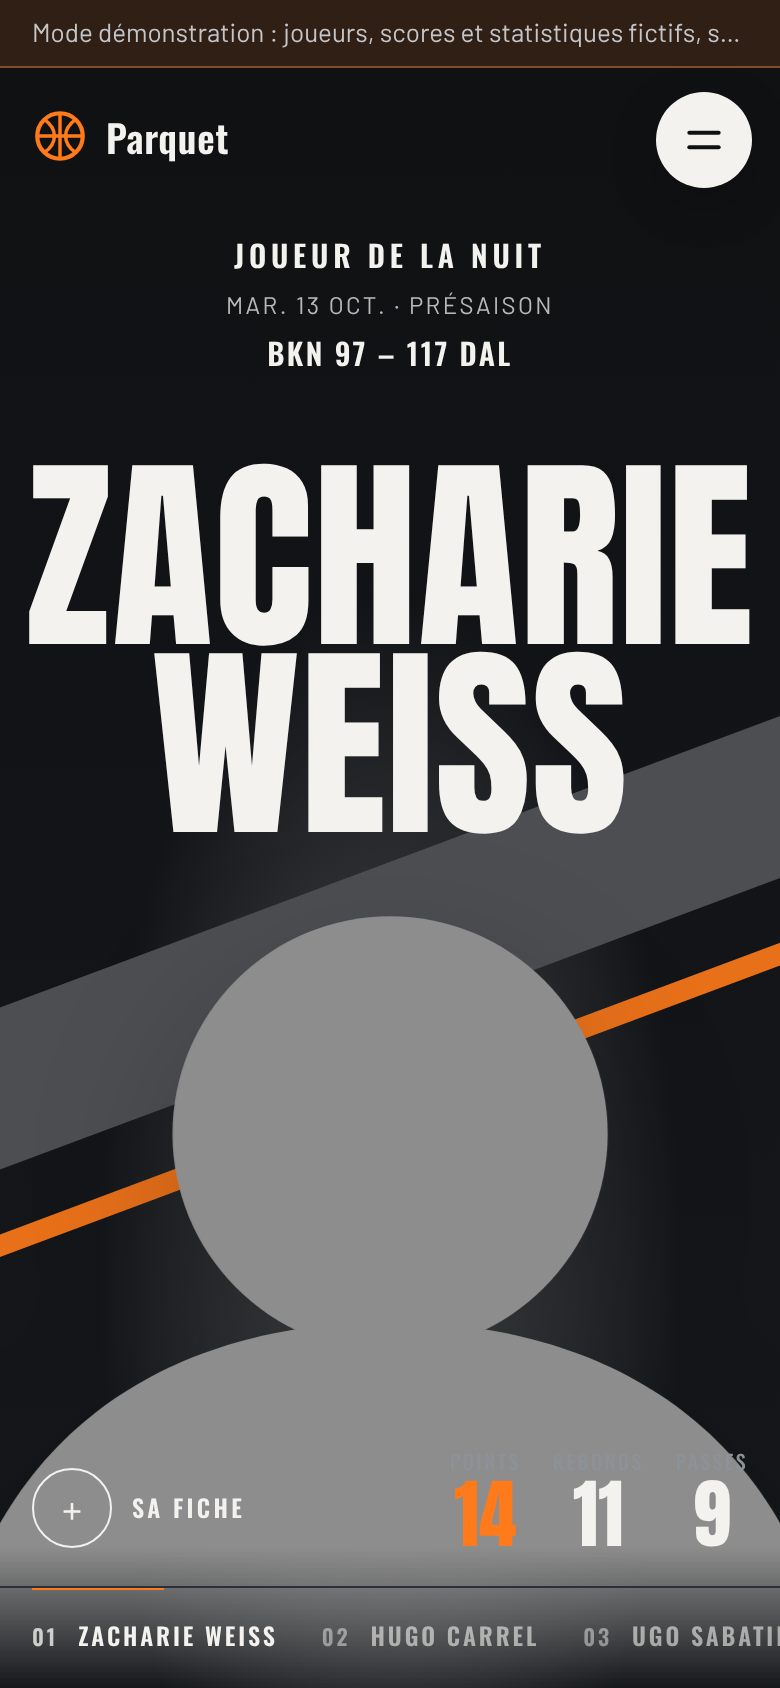
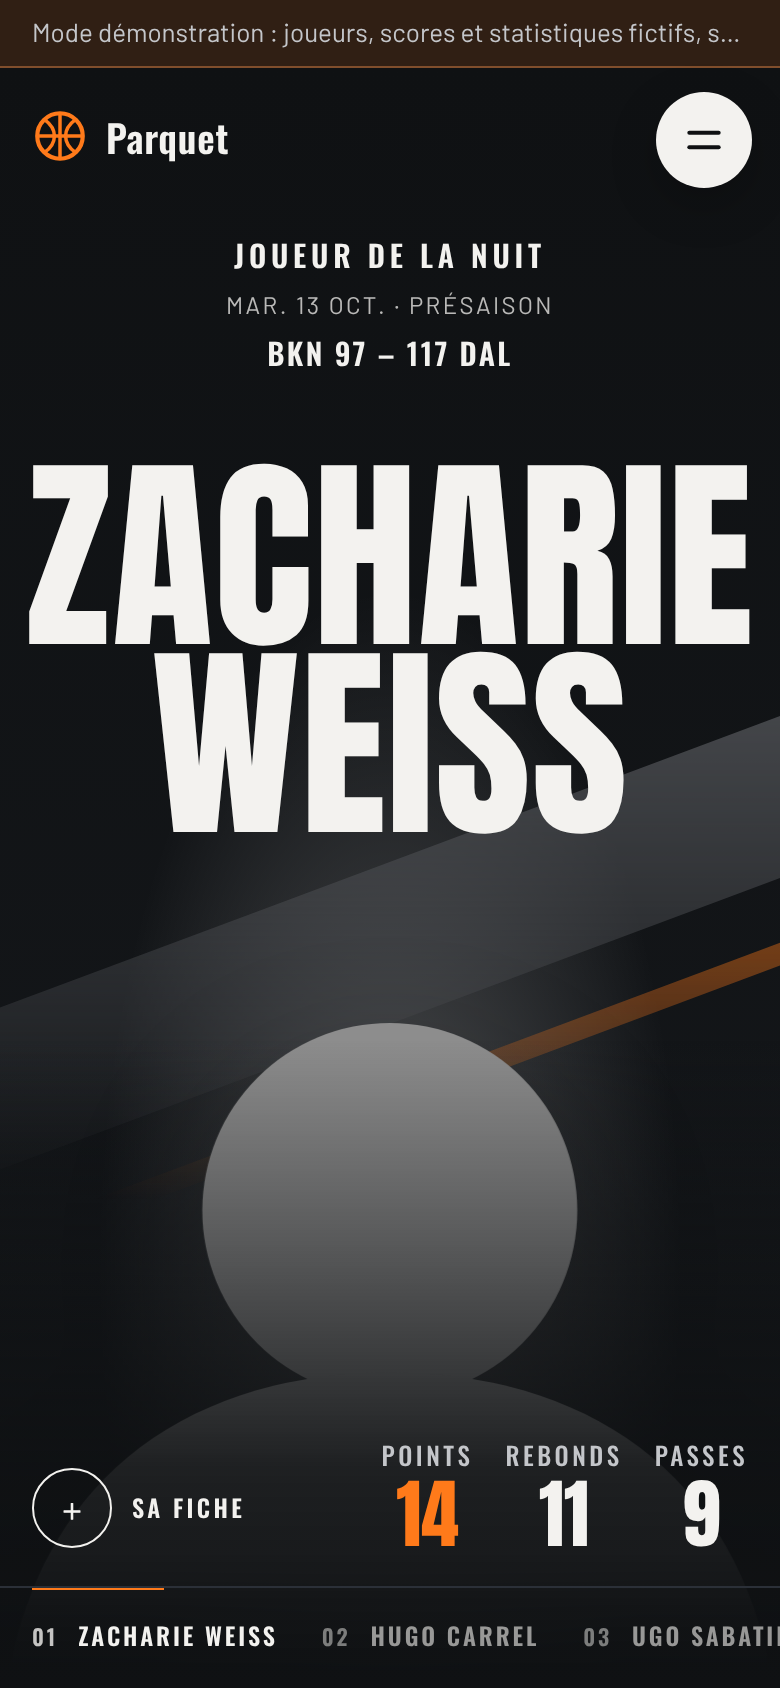
Animations plus fluides et stats plus lisibles (v1.9.1)
Animations
- Plus de formes qui se croisent : au changement de joueur, l'ancien s'efface
  sur place, puis le nouveau entre une fois la place libre
- Les bandes s'étirent depuis la gauche au lieu de traverser l'écran
- Courbes d'animation adoucies, mouvements à la souris et au défilement
  raccourcis, titres qui ne remontent plus sur leur ligne d'en-tête,
  bandeau des scores moins incliné

Lisibilité
- Voile de fond sous les stats et l'encart du match de la scène, et sous
  les titres des affiches (le portrait ou le logo s'estompe derrière)
- Bandes effacées dans la zone des textes, chiffres fantômes plus discrets
- Libellés des stats plus contrastés, survol des lignes de match atténué
- Portrait de la scène abaissé : il ne cache plus que le bas du nom

diff --git a/web/css/style.css b/web/css/style.css
@@ -8691,3 +8691,299 @@ body.is-immersive main h2:not(.stage-name):not(.name) {
   border-radius: 0;
   box-shadow: none;
 }
+
+/* =====================================================================
+   2.0 Fluidité et lisibilité : les éléments ne se croisent plus en
+   bougeant (on sort, puis on entre), les textes et les chiffres sont
+   toujours posés sur un fond calme.
+   ===================================================================== */
+
+:root {
+  --ease-out: cubic-bezier(0.22, 1, 0.36, 1);
+  --ease-in: cubic-bezier(0.55, 0, 0.75, 0.2);
+}
+
+/* ------------------------------------------------ transitions sans chevauchement */
+
+/* Les bandes s'étirent depuis la gauche au lieu de traverser l'écran. */
+.stage-band {
+  transform-origin: left center;
+  animation: band-grow 1s var(--ease-out) both;
+}
+
+.stage-band.thin {
+  animation-delay: 0.1s;
+}
+
+@keyframes band-grow {
+  from {
+    transform: scaleX(0);
+  }
+}
+
+.stage-cutout,
+.poster-visual.is-cutout img {
+  animation: cut-enter 1s var(--ease-out) 0.1s both;
+}
+
+@keyframes cut-enter {
+  from {
+    opacity: 0;
+    transform: translateY(18px) scale(0.985);
+  }
+}
+
+/* Changement de joueur : tout l'ancien s'efface d'abord, sur place… */
+.slide.is-leaving .sn-in {
+  animation: sn-exit 0.36s var(--ease-in) both;
+  animation-delay: calc(var(--i, 0) * 40ms);
+}
+
+@keyframes sn-exit {
+  to {
+    opacity: 0;
+    transform: translateY(-60%);
+  }
+}
+
+.slide.is-leaving .stage-cutout {
+  animation: cut-exit 0.32s var(--ease-in) both;
+}
+
+@keyframes cut-exit {
+  to {
+    opacity: 0;
+    transform: translateY(12px) scale(0.985);
+  }
+}
+
+.slide.is-leaving .stage-band,
+.slide.is-leaving .stage-top,
+.slide.is-leaving .stage-left,
+.slide.is-leaving .stage-stats,
+.slide.is-leaving .stage-gate {
+  animation: fade-only-out 0.24s ease both;
+}
+
+/* … puis le nouveau entre, une fois la place libre. */
+.slide.is-after .stage-band {
+  animation-name: band-grow;
+  animation-delay: 0.34s;
+}
+
+.slide.is-after .stage-band.thin {
+  animation-delay: 0.42s;
+}
+
+.slide.is-after .sn-in {
+  animation-delay: calc(var(--i, 0) * 80ms + 0.42s);
+}
+
+.slide.is-after .stage-cutout {
+  animation-name: cut-enter;
+  animation-delay: 0.4s;
+}
+
+.slide.is-after .stage-top {
+  animation-delay: 0.45s;
+}
+
+.slide.is-after .stage-left {
+  animation-delay: 0.5s;
+}
+
+.slide.is-after .ss-item {
+  animation-delay: calc(var(--i, 0) * 70ms + 0.5s);
+}
+
+/* Profondeur à la souris et au défilement : des mouvements courts, qui ne font plus passer
+   une forme sur un texte. */
+.name-layer {
+  translate: calc(var(--mx, 0) * -8px) calc(var(--my, 0) * -4px);
+  transform: translateY(calc(var(--out, 0) * -8vh));
+  opacity: calc(1 - var(--out, 0) * 1.6);
+}
+
+.cut-layer {
+  translate: calc(var(--mx, 0) * 12px) calc(var(--my, 0) * 5px);
+}
+
+.stage-band {
+  translate: calc(var(--mx, 0) * -10px) 0;
+}
+
+.stage-band.thin {
+  translate: calc(var(--mx, 0) * -16px) 0;
+}
+
+.poster-title {
+  translate: calc(var(--mx, 0) * -6px) 0;
+  transform: none;
+}
+
+.poster-copy {
+  opacity: calc(1 - var(--out, 0) * 1.1);
+}
+
+.poster-ghost {
+  translate: calc(var(--mx, 0) * 10px) calc(var(--out, 0) * 36px);
+}
+
+.poster-visual {
+  translate: calc(var(--mx, 0) * 10px) calc(var(--my, 0) * 4px);
+}
+
+.home-games .page-title {
+  translate: calc((1 - var(--enter, 1)) * 6vw) 0;
+}
+
+.nn-big {
+  translate: 0 calc((1 - var(--enter, 1)) * 36px);
+}
+
+.night-num:nth-child(even) .nn-big {
+  translate: 0 calc((1 - var(--enter, 1)) * 56px);
+}
+
+.ht-col:nth-child(2) {
+  translate: 0 calc((1 - var(--enter, 1)) * 30px);
+}
+
+.ht-col:nth-child(3) {
+  translate: 0 calc((1 - var(--enter, 1)) * 60px);
+}
+
+.home-games .game-tile:not(.row-in) .tile-team .logo {
+  transform: scale(0.85);
+}
+
+.home-games .game-tile:not(.row-in) .tl-player .headshot {
+  transform: translateY(18%);
+}
+
+.home-games .game-tile,
+.home-games .game-tile .tile-team .logo,
+.home-games .tl-player .headshot {
+  transition-timing-function: var(--ease-out);
+}
+
+/* ------------------------------------------------ lisibilité */
+
+/* Scène de l'accueil : un voile monte du bas de l'écran, sous les stats et l'encart du match,
+   pour que rien (portrait, bandes) ne passe derrière les chiffres. */
+.slide::after {
+  content: "";
+  position: absolute;
+  left: 0;
+  right: 0;
+  bottom: 0;
+  height: 44%;
+  z-index: 4;
+  pointer-events: none;
+  background: linear-gradient(to top, var(--bg) 0%, color-mix(in oklab, var(--bg) 88%, transparent) 34%, transparent 100%);
+}
+
+/* Les bandes s'effacent avant d'atteindre le bas de la scène et la zone des textes des affiches. */
+.stage .stage-band {
+  -webkit-mask-image: linear-gradient(to bottom, #000 35%, transparent 70%);
+  mask-image: linear-gradient(to bottom, #000 35%, transparent 70%);
+}
+
+.poster .stage-band,
+.game-page .scoreboard .stage-band {
+  -webkit-mask-image: linear-gradient(to right, transparent 8%, #000 62%);
+  mask-image: linear-gradient(to right, transparent 8%, #000 62%);
+}
+
+/* Affiches : le portrait ou le logo s'estompe vers la gauche, sous le titre et les chiffres. */
+.poster-visual {
+  z-index: 2;
+}
+
+.poster::before {
+  content: "";
+  position: absolute;
+  inset: 0;
+  z-index: 3;
+  pointer-events: none;
+  background: linear-gradient(90deg, var(--bg) 0%, color-mix(in oklab, var(--bg) 82%, transparent) 34%, transparent 66%);
+}
+
+.poster-slim::before {
+  display: none;
+}
+
+/* Chiffres fantômes plus discrets, pour ne jamais concurrencer les vrais chiffres. */
+.poster-ghost {
+  background: linear-gradient(180deg, color-mix(in oklab, var(--text) 9%, transparent) 10%, color-mix(in oklab, var(--text) 1%, transparent) 88%);
+  -webkit-background-clip: text;
+  background-clip: text;
+}
+
+.nn-big {
+  background: linear-gradient(180deg, color-mix(in oklab, var(--text) 17%, transparent) 10%, color-mix(in oklab, var(--text) 3%, transparent) 78%);
+  -webkit-background-clip: text;
+  background-clip: text;
+}
+
+/* Stats : libellés plus contrastés, chiffres nets. */
+.ss-item small {
+  color: var(--text-2);
+  font-size: 12.5px;
+  letter-spacing: 0.14em;
+}
+
+.ss-item b {
+  color: var(--text);
+}
+
+.ss-item:first-child b {
+  color: var(--accent);
+}
+
+.home-games .tl-player small,
+.tl-player small {
+  color: var(--text-2);
+}
+
+.home-games .game-tile:hover {
+  background: linear-gradient(100deg, color-mix(in srgb, var(--away) 9%, transparent) 0%, transparent 30%, transparent 55%, color-mix(in srgb, var(--home) 9%, transparent) 72%, transparent 100%);
+}
+
+.poster-meta,
+.nn-vs,
+.nl-k {
+  color: var(--text-2);
+}
+
+@media (max-width: 700px) {
+  /* Sur téléphone, le voile monte du bas : le texte est en bas, le visuel au-dessus. */
+  .poster::before {
+    background: linear-gradient(to top, var(--bg) 0%, color-mix(in oklab, var(--bg) 86%, transparent) 42%, transparent 78%);
+  }
+
+  .poster .stage-band {
+    -webkit-mask-image: linear-gradient(to bottom, #000 30%, transparent 62%);
+    mask-image: linear-gradient(to bottom, #000 30%, transparent 62%);
+  }
+
+  .slide::after {
+    height: 40%;
+  }
+
+  .poster-ghost {
+    top: calc(var(--banner-h, 0px) + 60px);
+    bottom: auto;
+  }
+}
+
+/* Le portrait de la scène ne recouvre plus que le bas du nom. */
+.cut-layer {
+  height: min(60%, 700px);
+}
+
+@media (max-width: 700px) {
+  .cut-layer {
+    height: 50%;
+  }
+}

diff --git a/web/sw.js b/web/sw.js
@@ -4,7 +4,7 @@
 // toujours essayé en premier, et le cache ne sert que de secours quand le serveur est arrêté.
 // Ainsi, une mise à jour du code est visible dès le lancement suivant, sans mélange de versions.
 
-const VERSION = "1.9.0";
+const VERSION = "1.9.1";
 const STATIC_CACHE = `parquet-static-${VERSION}`;
 const API_CACHE = `parquet-api-${VERSION}`;
 const API_CACHE_MAX = 150;

diff --git a/web/js/scroll.js b/web/js/scroll.js
@@ -283,7 +283,7 @@ export function marquee(ctx, m, el) {
     if (!loop) return;
     x = (x + (46 * dir + vel * 0.32) * dt) % loop;
     if (x < 0) x += loop;
-    const skew = Math.max(-9, Math.min(9, -vel / 260));
+    const skew = Math.max(-4, Math.min(4, -vel / 420));
     track.style.transform = `translate3d(${(-x).toFixed(1)}px, 0, 0) skewX(${skew.toFixed(2)}deg)`;
   });
 }

diff --git a/web/js/views/stage.js b/web/js/views/stage.js
@@ -199,7 +199,7 @@ export function createStage(ctx) {
       o.classList.add("is-leaving");
       o.setAttribute("aria-hidden", "true");
       o.inert = true;
-      setTimeout(() => o.remove(), 700);
+      setTimeout(() => o.remove(), 520);
     }
     scene.append(slide);
     fitName(el);

diff --git a/parquet/__init__.py b/parquet/__init__.py
@@ -1,3 +1,3 @@
 """Parquet : tableau de bord et encyclopédie NBA personnels."""
 
-__version__ = "1.9.0"
+__version__ = "1.9.1"
